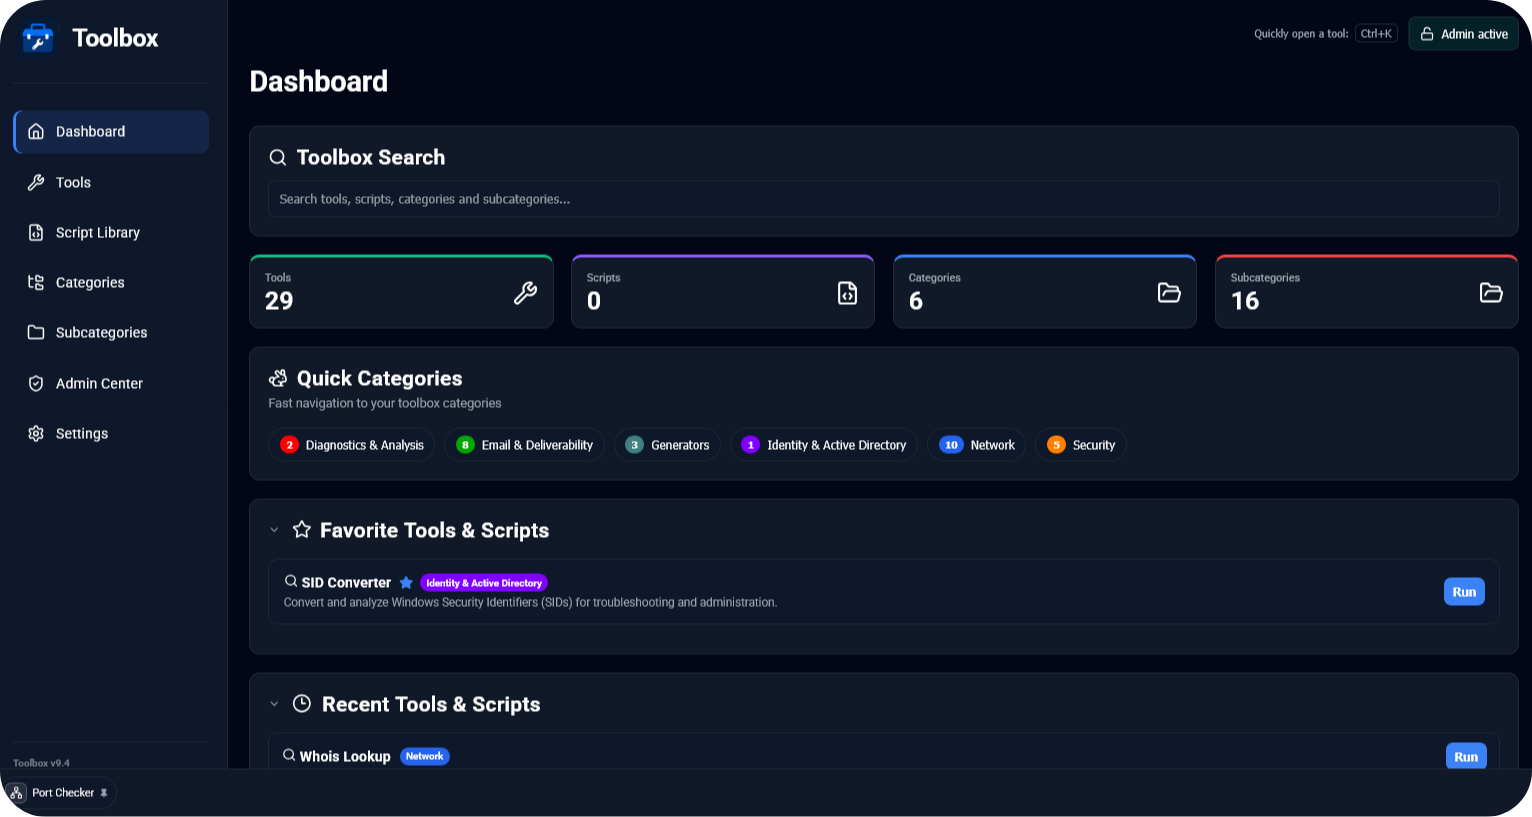
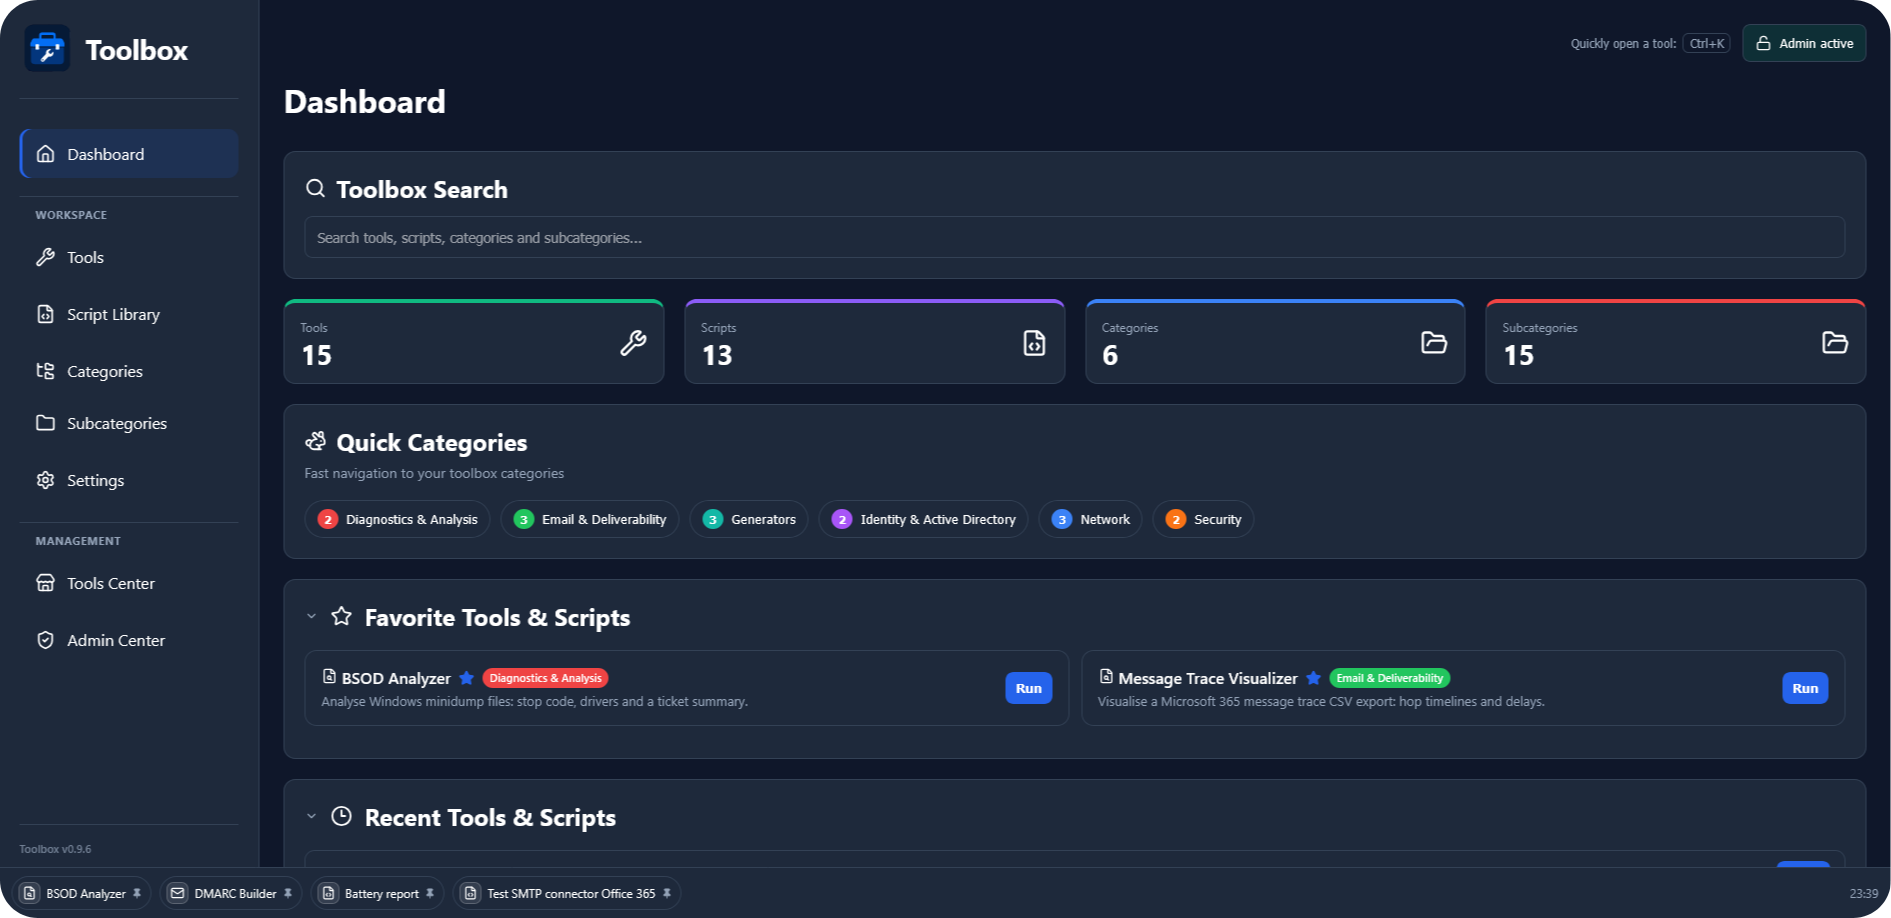
Update README and screenshots
Adds a feature list, reorganizes sections, and refreshes the dashboard
and tool-example screenshots (no white margin, updated UI).

diff --git a/README.md b/README.md
@@ -2,22 +2,21 @@
 
 # Toolbox
 
-Toolbox started as a personal project to solve a simple problem: I was constantly jumping between websites, scripts, and standalone tools to perform everyday IT tasks.
-
 As someone working in IT support and Microsoft 365 administration, I wanted a single platform that brings together the tools I use most often. What began as a small collection of utilities quickly grew into a modern, self-hosted toolbox designed for service desks, system administrators, MSPs, and other IT professionals.
 
-The goal with this project is to create something that is genuinely useful: a platform that saves time, reduces complexity, and gives professionals full control over their data without relying on dozens of separate services.
+The goal with this project is to create something that is genuinely useful: a platform that saves time, reduces complexity, and gives full control over their data without relying on dozens of separate services.
 
 I hope Toolbox can make your daily IT work just a little bit easier.
 
-## Work in Progress
-Toolbox is a personal project developed and maintained in my spare time. While the application is actively used and continuously improved, it is still a work in progress. Not all features are fully implemented, bugs may occur, and documentation may occasionally lag behind the latest changes.
+## Features
 
-There is no fixed roadmap or guaranteed release schedule. New features, improvements, and bug fixes are added when time and availability allow.
-
-Feedback, bug reports, and suggestions are always welcome. Please keep in mind that responses and updates may not be immediate.
-
-Use Toolbox at your own discretion and always test changes in an appropriate environment before deploying them to production.
+- **Tool catalog** — network, mail, security, certificate, identity, and data-encoding tools (DNS lookups, SPF/DMARC/DKIM builders, SSL/certificate inspection, password & secret generation, BSOD/message-trace/sign-in-anomaly analyzers, and more), organized by category and subcategory.
+- **Script Library** — store, tag, and reuse PowerShell/other scripts with templated input fields, favorites, and admin-only visibility.
+- **Tools Center** — browse, enable/disable, and feature tools from a catalog view.
+- **Admin Center** — organization-wide settings in one place: general defaults (language/timezone/theme/clock), authentication (shared password, local users, Microsoft Entra ID, or hybrid), branding (app name/logo/colors/login page), automatic + manual backups with restore, activity logging with retention policies, and system info.
+- **First Startup Wizard** — guided setup on a fresh install: create a new instance or restore from a backup, then set org-wide language/timezone/theme defaults.
+- **Multi-language** — English, Dutch, Frisian, and Turkish, with an org-wide default and a per-browser override.
+- **Multi-window workspace** — open several tools and scripts at once in draggable, resizable floating windows with a taskbar, or fullscreen on mobile.
 
 ## Screenshots
 
@@ -27,21 +26,20 @@ Use Toolbox at your own discretion and always test changes in an appropriate env
 
 ### Tool Example
 
-![DNS Lookup tool](docs/images/tool-example.png)
-
----
+<img src="docs/images/tool-example.png" alt="DNS Lookup tool" width="500" />
 
 ## Installation
 
-For Docker and Portainer deployments see:
+The recommended way to run Toolbox is via Docker and Portainer. See:
 
 [Docker instructions](docker/docker-readme.md)
 
----
+## Work in Progress
+Toolbox is a personal project developed and maintained in my spare time. While the application is actively used and continuously improved, it is still a work in progress. Not all features are fully implemented, bugs may occur, and documentation may occasionally lag behind the latest changes.
 
 ## AI Disclaimer
 
-The tool is completely Built by AI. Prompted by an IT guy. Powered by caffeine.
+The tool is completely Built by Claude Code
 
 ## License
 
